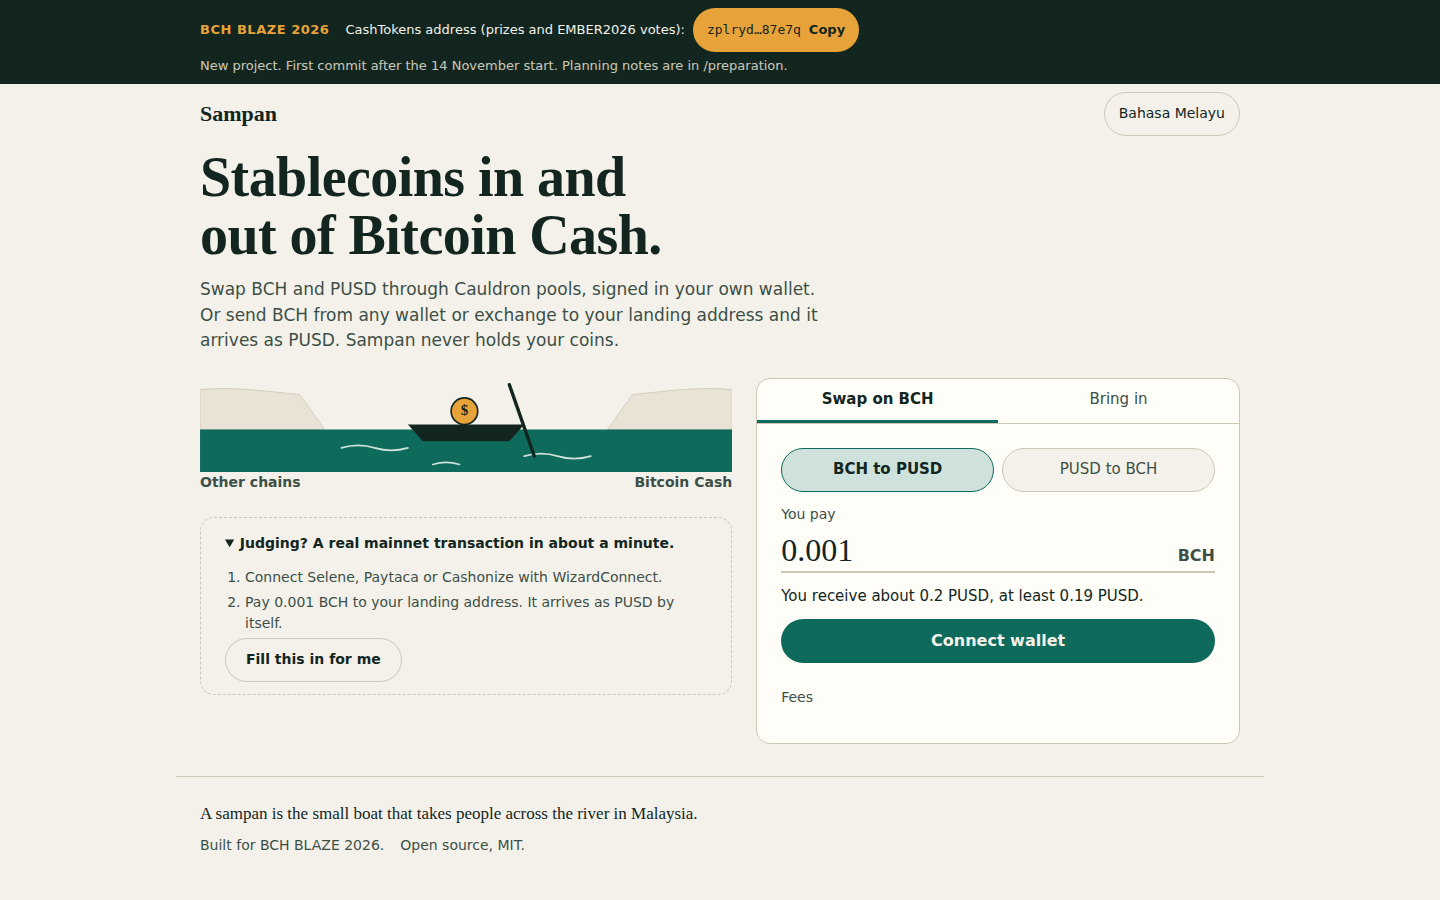
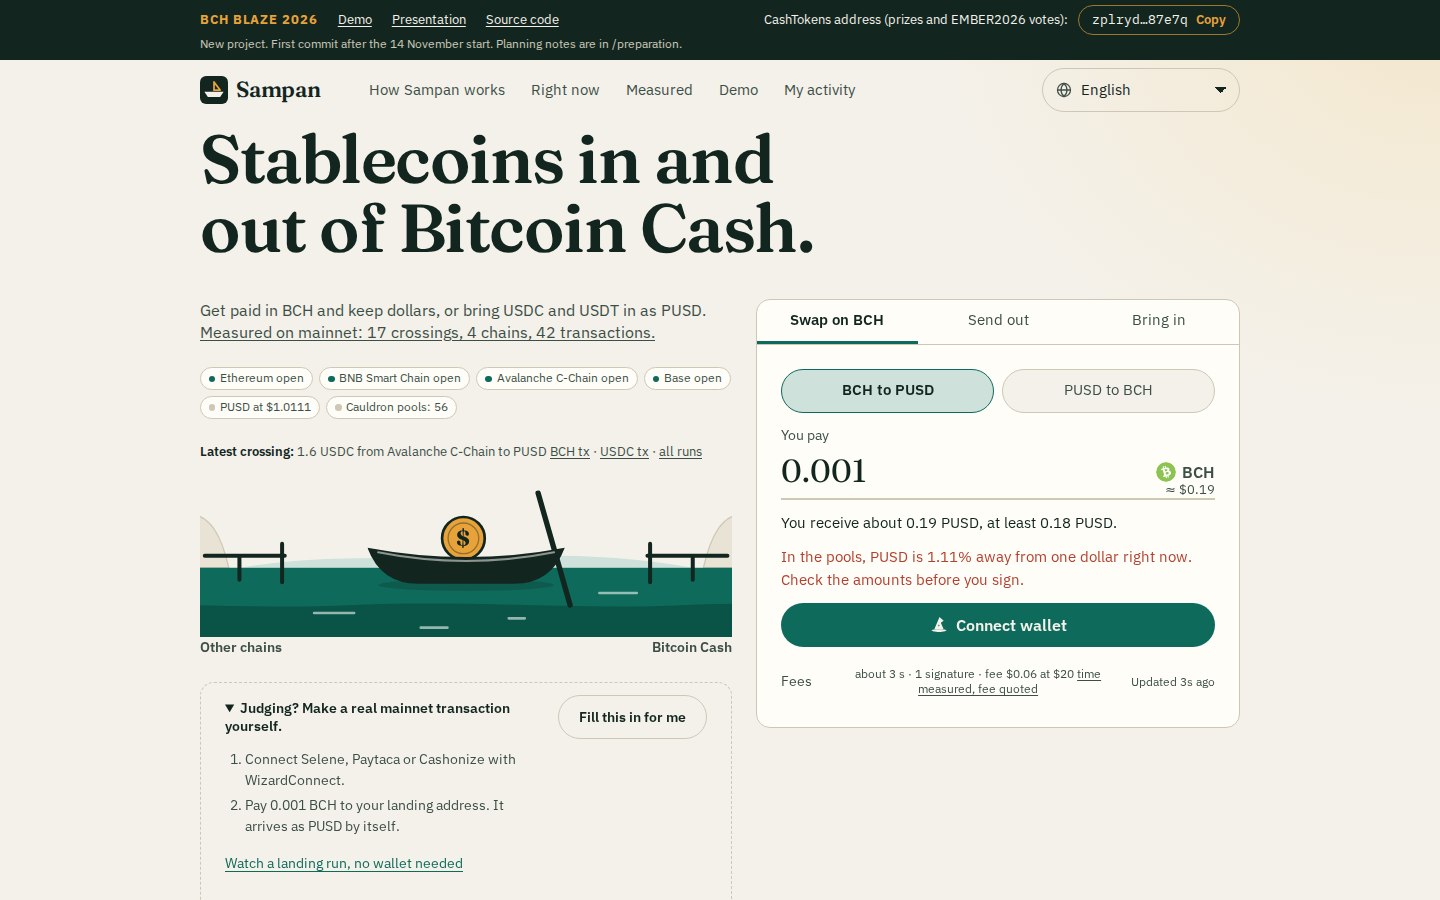
Retake the README pictures with the new front page, and point the picture tool at the language select
Taken with tools/readme/shots.ts from this build answering with the live site's API (the page is not deployed in this step), so the numbers in them are the live ones of 21 November. The two phone pictures are over the tool's PNG budget and are JPEG now; both READMEs name the new files. After a deploy, 'npx tsx tools/readme/shots.ts' takes them from the live site again. The tool clicked a language button the page no longer has; it now picks Malay in the select.

diff --git a/tools/readme/shots.ts b/tools/readme/shots.ts
@@ -48,7 +48,8 @@ async function shoot(browser: Browser, device: string, options: BrowserContextOp
       }
     }
     await open(page, '/', errors);
-    await page.locator('button[lang="ms"]').click();
+    // The language menu is a native select (web/src/LangPicker.tsx).
+    await page.locator('select.topbar__lang').selectOption('ms');
     await page.waitForTimeout(SETTLE_MS);
     if (errors.length) throw new Error(`Malay: console errors: ${errors.join(' | ')}`);
     await save(page, `home-ms-${device}`);

diff --git a/README.md b/README.md
@@ -74,7 +74,7 @@ chapter lists the mainnet transactions it shows, with subtitles in English, Mala
 
 <p align="center"><img src="docs/images/home-desktop.png" width="720" alt="Sampan front page on a desktop browser: the headline, the river picture, the judging steps and the Swap on BCH card with 0.001 BCH to PUSD"></p>
 
-<p align="center"><img src="docs/images/tab-in-desktop.png" width="430" alt="The Bring in tab: BCH from any wallet arrives as PUSD at the token address you enter"> <img src="docs/images/home-iphone.png" width="200" alt="The same page on an iPhone 13 in WebKit"></p>
+<p align="center"><img src="docs/images/tab-in-desktop.png" width="430" alt="The Bring in tab: BCH from any wallet arrives as PUSD at the token address you enter"> <img src="docs/images/home-iphone.jpg" width="200" alt="The same page on an iPhone 13 in WebKit"></p>
 
 ## The problem and the answer
 

diff --git a/README.ms.md b/README.ms.md
@@ -77,7 +77,7 @@ Di halaman utama, **Isikan untuk saya** membuka tab Bawa masuk untuk langkah 3.
 hingga tiba. Panduan penuh bersuara ada di [halaman demo](https://sampan.sasateguh.com/demo) dalam bab, dan setiap bab
 menyenaraikan transaksi mainnet yang ditunjukkannya, dengan sari kata Inggeris, Melayu, Indonesia dan Filipino.
 
-<p align="center"><img src="docs/images/home-ms-desktop.png" width="720" alt="Halaman utama Sampan dalam Bahasa Melayu pada pelayar desktop"> <img src="docs/images/home-ms-iphone.png" width="200" alt="Halaman yang sama pada iPhone 13 dalam WebKit"></p>
+<p align="center"><img src="docs/images/home-ms-desktop.png" width="720" alt="Halaman utama Sampan dalam Bahasa Melayu pada pelayar desktop"> <img src="docs/images/home-ms-iphone.jpg" width="200" alt="Halaman yang sama pada iPhone 13 dalam WebKit"></p>
 
 ## Masalah dan jawapannya
 
